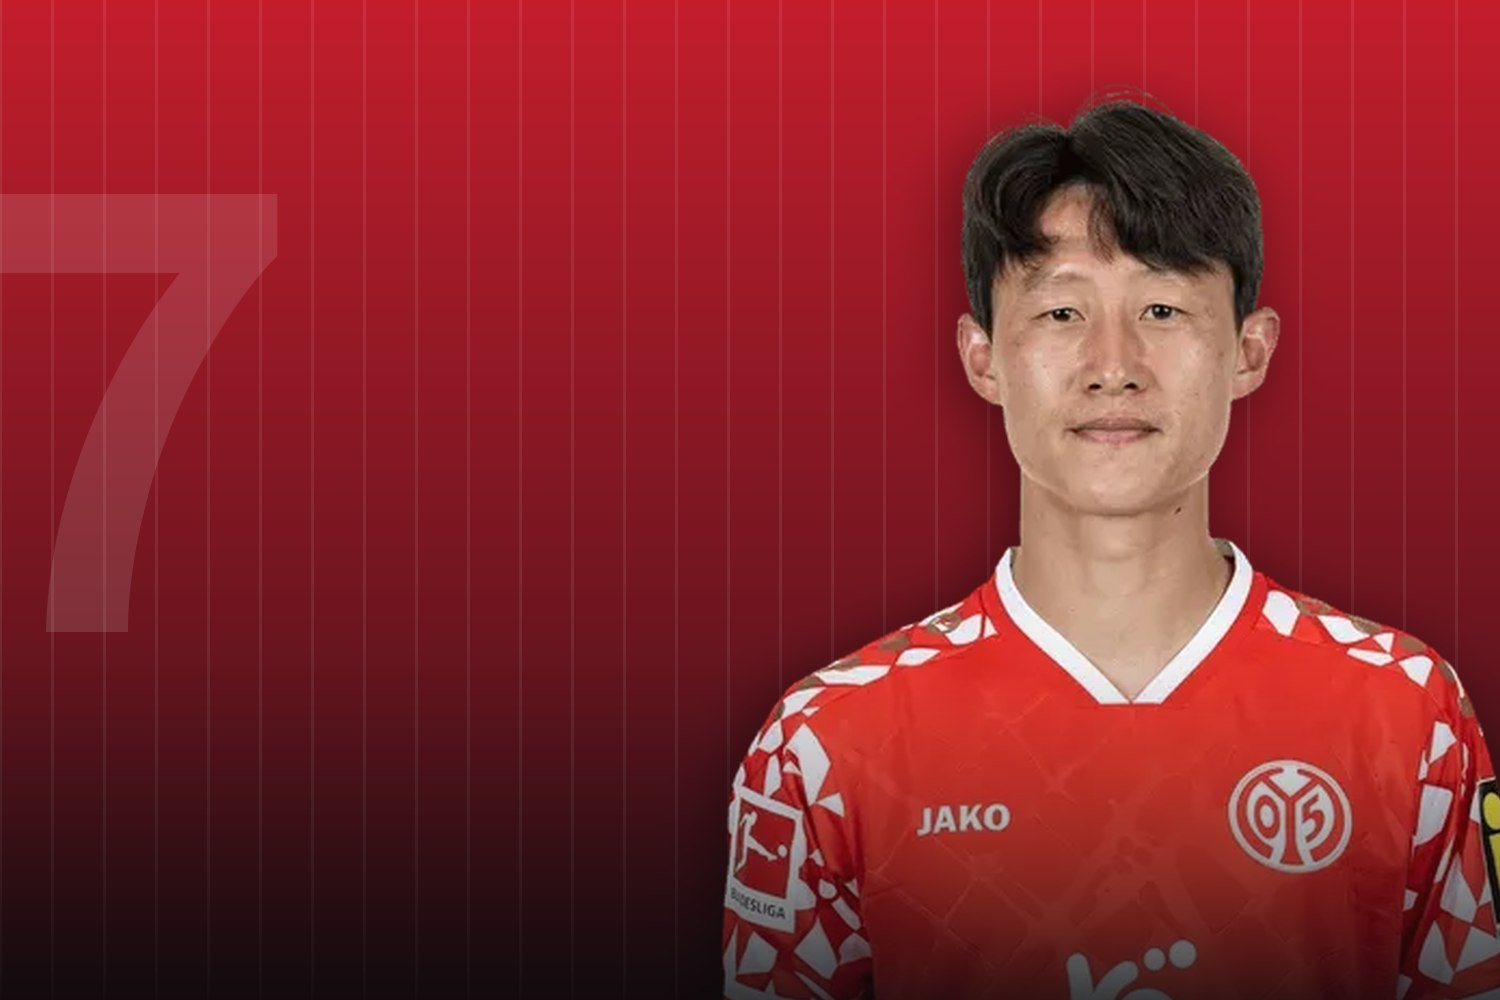
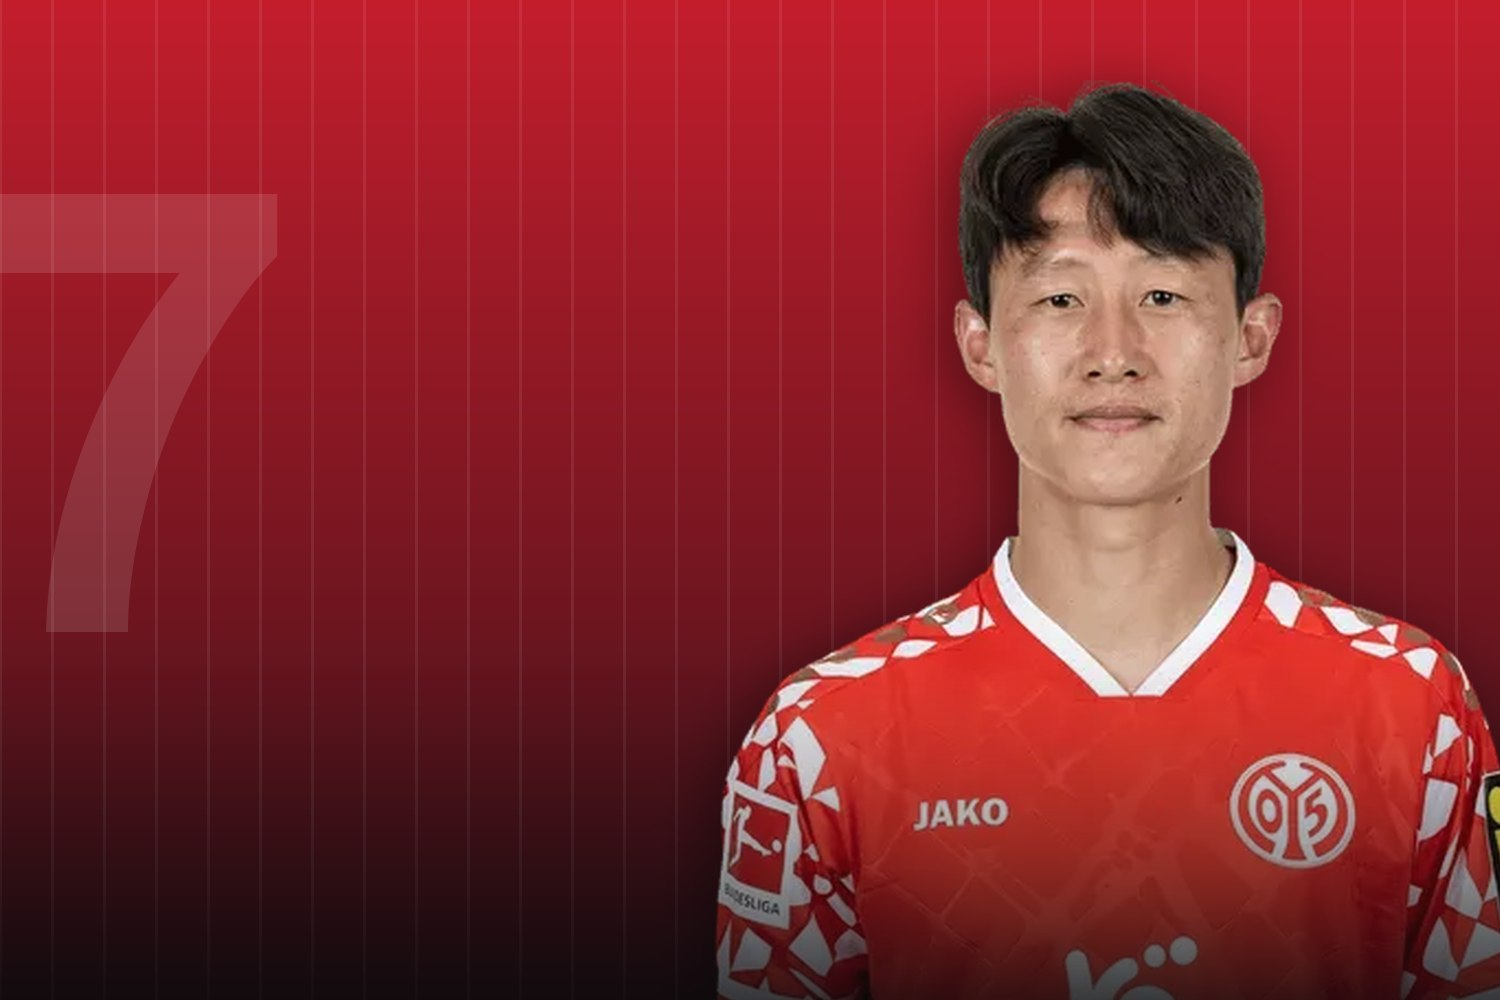
선수 상세 히어로 25명 전원을 통일된 배너 스타일로
선수마다 히어로 톤이 제각각(실사 액션샷·구단 그래픽·합성)이라 일관성이
없었다. 전원 같은 배너 포맷으로 통일:
  팀 컬러 그라디언트 + 유니폼 패턴(핀스트라이프/스트라이프/사선)
  + 좌측 거대 등번호 타이포 + 우측 인물 컷아웃 블리드 + 하단 페이드
  1500x1000(3:2), 파일명 {key}.jpg 로 정규화하고 LANDSCAPE 맵 2곳 재작성.

컷아웃 소스는 기존 나무위키 공식 프로필(16명)과 사용자 제공 구단
프로필(9명)을 재사용. 손흥민·황희찬은 오래된 컷아웃이 남아 있어
최신 인포박스 원본(LAFC 흑금·울버햄튼 골드)으로 재생성.

diff --git a/index.html b/index.html
@@ -2231,17 +2231,7 @@ function HomeV2({ onMatch, onPlayer, onNotif, tweaks, liveApiMatches = [], isLoa
   const finishedHeadline = isFinishedHighlight ? buildFinishedHeadline(highlightMatch) : null;
 
   // landscape image map: Korean name → filename in image/landscape/
-  const LANDSCAPE_MAP = {
-    '손흥민': 'heungmin.jpg', '이강인': 'kangin.png', '김민재': 'minjae.jpeg',
-    '조규성': 'guesung.jpeg', '황희찬': 'heechan.jpeg', '황인범': 'inbeom.jpg',
-    '김하성': 'haseong.jpeg', '이정후': 'junghoo.jpeg', '김혜성': 'hyesung.jpeg',
-    '오현규': 'hyeongyu.jpeg', '양현준': 'hyunjun.jpeg', '이한범': 'hanbeom.jpg',
-    '이재성': 'jaesung.jpg', '홍현석': 'hyunseok.jpg', '정우영': 'wooyeong.jpg',
-    '카스트로프': 'castrop.jpg', '박승수': 'seungsoo.jpg', '김지수': 'jisoo.jpg',
-    '양민혁': 'minhyeok.jpg', '이태석': 'taeseok.jpg', '송성문': 'songsm.jpg',
-    '백승호': 'seungho.png', '배준호': 'junho.jpeg', '엄지성': 'jisung.jpeg',
-    '설영우': 'youngwoo.jpeg',
-  };
+  const LANDSCAPE_MAP = { '손흥민': 'heungmin.jpg', '이강인': 'kangin.jpg', '김민재': 'minjae.jpg', '황희찬': 'heechan.jpg', '황인범': 'inbeom.jpg', '조규성': 'guesung.jpg', '이한범': 'hanbeom.jpg', '오현규': 'hyungyu.jpg', '양현준': 'hyunjun.jpg', '백승호': 'seungho.jpg', '배준호': 'junho.jpg', '엄지성': 'jisung.jpg', '설영우': 'youngwoo.jpg', '김하성': 'haseong.jpg', '이정후': 'junghoo.jpg', '김혜성': 'hyeseong.jpg', '이재성': 'jaesung.jpg', '홍현석': 'hyunseok.jpg', '정우영': 'wooyeong.jpg', '카스트로프': 'castrop.jpg', '박승수': 'seungsoo.jpg', '김지수': 'jisoo.jpg', '양민혁': 'minhyeok.jpg', '이태석': 'taeseok.jpg', '송성문': 'songsm.jpg' };
   React.useEffect(() => {
     const playerName = highlightMatch?.koreanPlayer?.name;
     const landscapeFile = LANDSCAPE_MAP[playerName];
@@ -4098,17 +4088,7 @@ function PlayerScreen({ player, onBack, onMatch, liveApiMatches = [], statsCache
       {/* Hero */}
       <div style={{ position:'relative', height:320, overflow:'hidden' }}>
         {(() => {
-          const LANDSCAPE = {
-            '손흥민':'heungmin.jpg','이강인':'kangin.png','김민재':'minjae.jpeg',
-            '조규성':'guesung.jpeg','황희찬':'heechan.jpeg','황인범':'inbeom.jpg',
-            '김하성':'haseong.jpeg','이정후':'junghoo.jpeg','김혜성':'hyesung.jpeg',
-            '오현규':'hyeongyu.jpeg','양현준':'hyunjun.jpeg','이한범':'hanbeom.jpg',
-            '이재성':'jaesung.jpg','홍현석':'hyunseok.jpg','정우영':'wooyeong.jpg',
-            '카스트로프':'castrop.jpg','박승수':'seungsoo.jpg','김지수':'jisoo.jpg',
-            '양민혁':'minhyeok.jpg','이태석':'taeseok.jpg','송성문':'songsm.jpg',
-            '백승호':'seungho.png','배준호':'junho.jpeg','엄지성':'jisung.jpeg',
-            '설영우':'youngwoo.jpeg',
-          };
+          const LANDSCAPE = { '손흥민': 'heungmin.jpg', '이강인': 'kangin.jpg', '김민재': 'minjae.jpg', '황희찬': 'heechan.jpg', '황인범': 'inbeom.jpg', '조규성': 'guesung.jpg', '이한범': 'hanbeom.jpg', '오현규': 'hyungyu.jpg', '양현준': 'hyunjun.jpg', '백승호': 'seungho.jpg', '배준호': 'junho.jpg', '엄지성': 'jisung.jpg', '설영우': 'youngwoo.jpg', '김하성': 'haseong.jpg', '이정후': 'junghoo.jpg', '김혜성': 'hyeseong.jpg', '이재성': 'jaesung.jpg', '홍현석': 'hyunseok.jpg', '정우영': 'wooyeong.jpg', '카스트로프': 'castrop.jpg', '박승수': 'seungsoo.jpg', '김지수': 'jisoo.jpg', '양민혁': 'minhyeok.jpg', '이태석': 'taeseok.jpg', '송성문': 'songsm.jpg' };
           const file = LANDSCAPE[player.name];
           return file
             ? <img src={`image/landscape/${file}`} alt={player.name} style={{ position:'absolute', inset:0, width:'100%', height:'100%', objectFit:'cover', objectPosition:'50% 25%' }}/>
